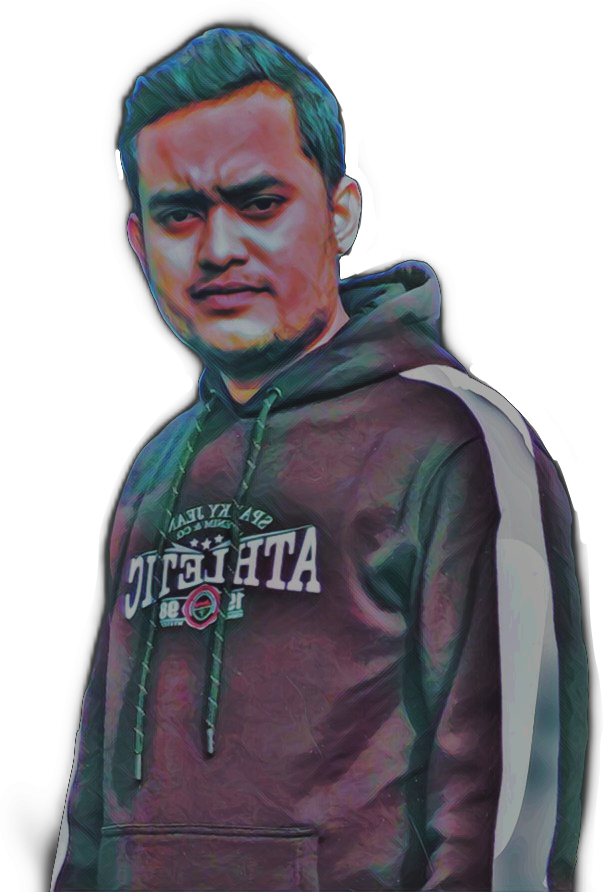
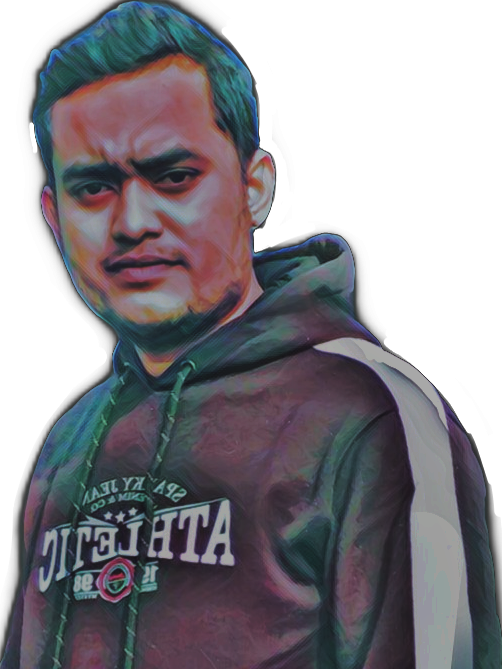
up

diff --git a/src/App.css b/src/App.css
@@ -29,7 +29,9 @@ body {
 
 
 
-
+.banner_img{
+	border: 2px yellow;
+}
 
 
 
@@ -40,12 +42,12 @@ body {
 
 
 	   width: 50%;
-	   height: 500px;
+	   height: 390px;
 
 	   object-fit:fill;
 	   object-position: bottom;
-	   margin-top: 5rem;
-	   margin-left: 7rem;
+	   margin-top: 0.5rem;
+	   margin-left: 3rem;
 	   animation: myimg 7s cubic-bezier(0.34, 1.56, 0.64, 1) 0s 1 normal forwards;
 
 	}
@@ -379,7 +381,7 @@ body {
 
 /* banner h1,h */
 .bnr-h{
-	padding-left: 2rem;
+	padding-left: 1rem;
   color: #07f7ff;
   font-family: Georgia, "Times New Roman", Times, serif;
   animation: bnr-h 1s ease 0s 1 normal none;
@@ -398,7 +400,7 @@ body {
 
 
 .bnr-h1{
-	padding-left: 2rem;
+	padding-left: 1rem;
   color: rgb(1, 233, 160);
   font-family: Georgia, "Times New Roman", Times, serif;
   
@@ -418,7 +420,7 @@ body {
 }
 /* banner-p */
 .bnr-p{
-	padding-left: 2rem;
+	padding-left: 1rem;
   font-family: Arial, Helvetica, sans-serif;
   color: #ffffff;
   animation: bnr-p 12s cubic-bezier(0.83, 0, 0.17, 1) 0s 1 normal forwards;
@@ -454,7 +456,7 @@ body {
   display: flex;
  
   margin-left: 2rem;
-  margin-top: 160px; 
+  margin-top: 110px; 
  
 }
 
@@ -471,6 +473,7 @@ body {
   margin: 0 5px;
   transition: all 0.5s linear;
   cursor: pointer;
+  margin-top: 10px;
  
 }
 .header__ul li:hover {

diff --git a/src/components/Banner.js b/src/components/Banner.js
@@ -24,16 +24,18 @@ const Banner = () => {
 
 
           
-          <div className="col-6">
+          <div className="col-5">
             <div className="header__content">
               <div className="header__section">
 
-              
+             
 
 
 
 
                 <ul className="header__ul">
+
+                
                   <li>
                     <FaFacebookF className="headerIcon1 " />
                   </li>
@@ -49,6 +51,9 @@ const Banner = () => {
                   </li>
                 </ul>
                 <h1 className="bnr-h">{state.title1}</h1>
+                <div className="banner__img">
+              <img className="myimg" src={state.image} alt="man" />
+            </div>
                 <h1 className="bnr-h1">{state.title}</h1>
                 <p className="bnr-p">{state.text}</p>
                 <div className="header__buttons">
@@ -60,11 +65,9 @@ const Banner = () => {
               </div>
             </div>
           </div>
-          <div className="col-6">
-            <div className="banner__img">
-              <img className="myimg" src={state.image} alt="man" />
-            </div>
-          </div>
+          {/* <div className="col-6"> */}
+{/*             
+          </div> */}
         </div>
       </div>
     </header>
